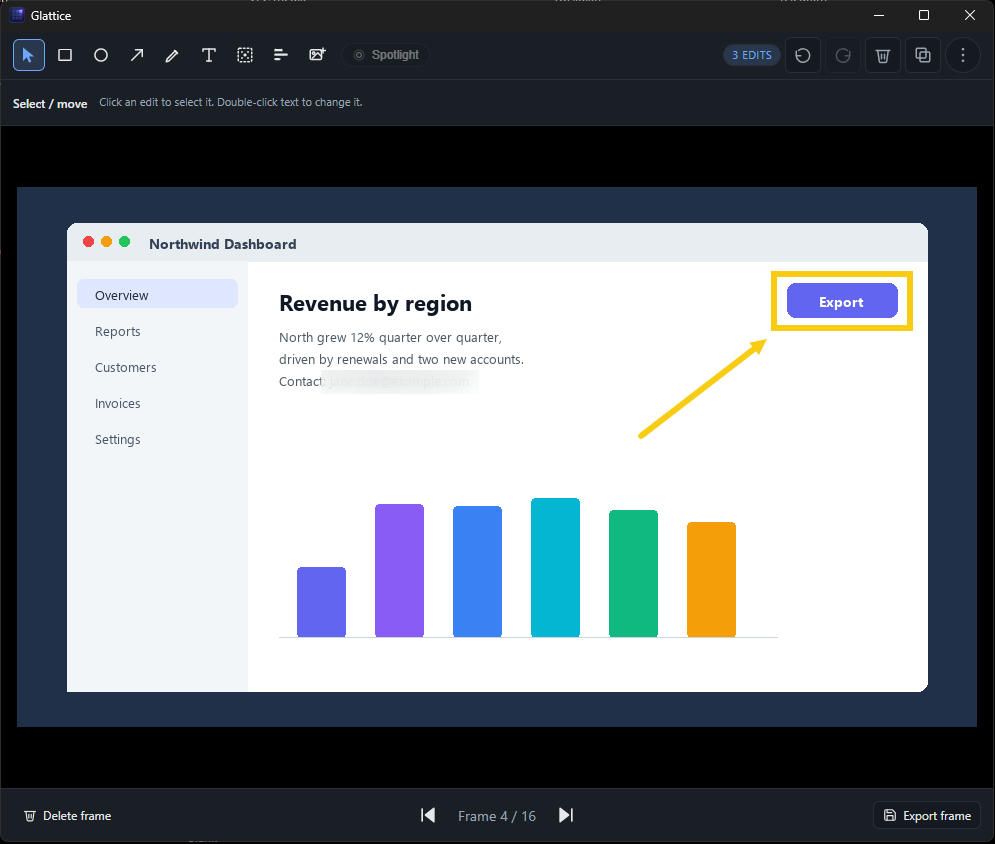
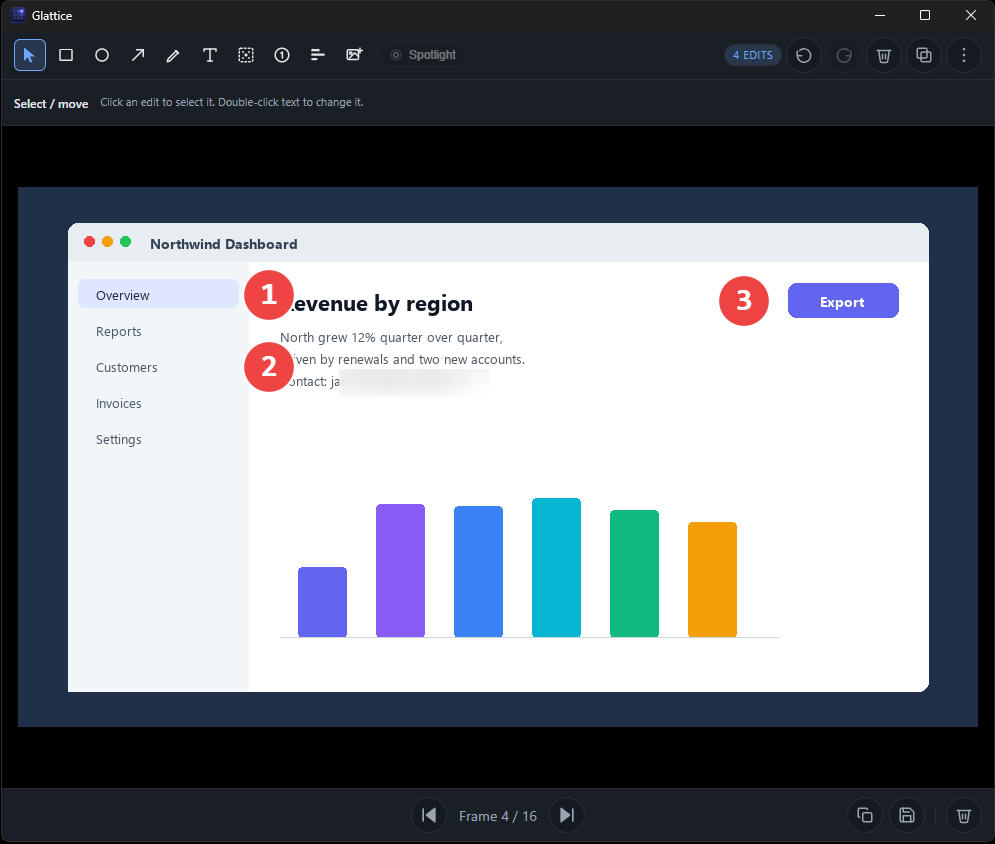
Refresh screenshots and finish the 0.2.0 changelog
- README screenshots retaken with the round toolbar buttons, the new
  Editor frame bar and the Step tool
- Changelog: Home window fit, Esc in the Player, Step tool dragging and
  styles carrying forward

diff --git a/CHANGELOG.md b/CHANGELOG.md
@@ -30,6 +30,8 @@
 ### Editor
 - Box tools (rectangle, ellipse, blur, simplify) move and resize their own boxes without switching to Select
 - New **Step number** tool (`N`): each click drops the next numbered marker (1, 2, 3…) for pointing out steps in order
+- With the Step tool active, drag an existing number to move it
+- Colour, size and blur strength carry forward: restyling an edit sets the style for the next one, across frames and visits to the editor
 - Letter keys pick tools; redo added (`Ctrl+Y`)
 - An options strip names the active tool and says how to use it
 
@@ -40,6 +42,8 @@
 - Frames explains its gestures and shows selection clearly; Sheet layout controls are labelled
 - Settings are grouped and reworded; the theme switch moved there
 - The window no longer flashes blank at launch
+- Home always fits its window: a long Recent list scrolls inside its own card
+- In the Player, `Esc` closes an open menu instead of jumping back to Home
 
 ### Project
 - The installer shows the MIT license; the separate EULA is gone

diff --git a/README.md b/README.md
@@ -9,7 +9,7 @@ A lightweight desktop screen recorder built for bug reports and tutorials. Recor
 Built with [Tauri v2](https://tauri.app), React 19, and Rust. Runs on Windows 10 and 11.
 
 <p align="center">
-  <img src="docs/screenshots/editor.png" alt="The frame editor with a rectangle, an arrow and a blurred email address drawn on a frame" width="720" />
+  <img src="docs/screenshots/editor.png" alt="The frame editor with numbered step markers and a blurred email address on a frame" width="720" />
 </p>
 
 | Player | Frames |
